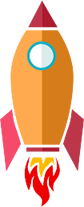
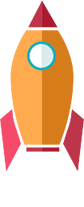
rocket new

Changed region(s): [[0.2857, 0.7536, 0.7143, 1.0]]

diff --git a/scripts/goToTop.js b/scripts/goToTop.js
@@ -2,30 +2,122 @@
  * Created by Wizlight on 28.07.2015.
  */
 
-function rocketMove(element,w) {
-    element.animate({
-        top:-$('#rocket').height(),
-        left:w
-    }, 3000);
+;(function(){
 
-    setTimeout(function () {
-        $('#exhaust').hide();
-    }, 500);
-    setTimeout(function () {
-        $('#rocket').hide();
-    }, 3000);
-}
+    var tail_img_1;
+    var tail_img_2;
+    var rock_img;
+    var exh_img_1;
+    var rock_div;
+    var exh_div;
 
-function goUp(){
-    var hPosR=$(document).outerHeight()-($('#rocket').height()+$('#exhaust').height());
-    var wPosR=$(document).outerWidth()/2-$(window).width()*0.225;
-    var hPosE=$(document).outerHeight()-$('#exhaust').height();
-    var wPosE=$(document).outerWidth()/2-$(window).width()*0.4167;
-    $('#rocket').show();
-    $('#rocket').offset({top:hPosR, left:wPosR});
-    $('#exhaust').show();
-    $('#exhaust').offset({top:hPosE, left:wPosE});
+    $('div .rightfooter a').click(goUp);
 
-    $('body,html').animate({scrollTop: 0}, 2700);
-    rocketMove($('#rocket'),wPosR);
-};
+    function goUp(){
+        var SCROLL_DURATION = 2700;
+        var ANIM_DURATION = 3000;
+
+        rock_div = $('#rocket_div');
+        exh_div = $('#exhaust_div');
+
+        rock_div.show();
+        exh_div.show();
+
+        looking_for_internal_nodes();
+
+        allocate_animation();
+
+        tail_img_2.hide();
+
+        set_tail_animation(tail_img_1, ANIM_DURATION, 50, 75);
+        set_tail_animation(tail_img_2, ANIM_DURATION, 50, 75);
+
+        set_exhaust_animation(1);
+
+        $('body,html').animate({scrollTop: 0}, SCROLL_DURATION);
+        rocketMove(rock_div, ANIM_DURATION);
+    }
+
+    function looking_for_internal_nodes(){
+        tail_img_1 = $('#pad_1');
+        tail_img_2 = $('#pad_2');
+        rock_img = $('#rocket');
+        exh_img_1 = $('#exhaust_1');
+    }
+
+    function allocate_animation(){
+        var horizBorder;
+        var vPosExh;
+        var vPosRoc;
+        var horizQuarter;
+        var hPosExh;
+        var hPosRoc;
+
+        var rock_hight = rock_img.height();
+        var rock_width = rock_img.width();
+        var exh_hight = exh_img_1.height();
+        var exh_width = exh_img_1.width();
+
+        if(rock_div.css("left") != "0px"){
+            vertBorder = $(document).height();
+        }else{
+            vertBorder = $(document).height() - Math.max(exh_hight, rock_hight);
+        }
+
+        horizQuarter = $(window).outerWidth()/4;
+        vPosExh = vertBorder - exh_hight - 10;
+        vPosRoc = vPosExh - rock_hight;
+        hPosExh = horizQuarter - exh_width/2;
+        hPosRoc = horizQuarter - rock_width/2;
+
+        rock_div.offset({top:vPosRoc, left:hPosRoc});
+        exh_div.offset({top:vPosExh, left:hPosExh});
+    }
+
+    function set_tail_animation(elem, duration, min_step, max_step){
+        var cur_time;
+        var step;
+
+        for(cur_time = 0; cur_time < duration;){
+            switch_visiable(elem, cur_time, 50);
+
+            step = min_step + Math.random() * (max_step + 1 - min_step);
+            step = Math.floor(step);
+            cur_time += step;
+        }
+
+        setTimeout(function () {
+            rock_div.hide();
+        }, duration);
+    }
+
+    function switch_visiable(elem, delay, duration){
+        setTimeout(function (){
+            elem.fadeToggle(duration, "linear");
+        }, delay);
+    }
+
+    function set_exhaust_animation(exh_id){
+        var curr = $('#exhaust_'+exh_id);
+        var next = $('#exhaust_'+(exh_id+1));
+
+        curr.fadeOut(700, "swing");
+        next.fadeIn(700, "swing", function(){
+            if(exh_id < 4){
+                set_exhaust_animation(exh_id + 1);
+            }else{
+                next.fadeOut(2000, "swing", function(){
+                    exh_div.hide();
+                });
+            }
+        });
+    }
+
+    function rocketMove(hPosRoc, duration) {
+        rock_div.animate({
+            top:0-rock_img.height(),
+            left:hPosRoc
+        }, duration);
+    }
+
+}());

diff --git a/css/style.css b/css/style.css
@@ -112,9 +112,42 @@ div.minavatar{width:70px;height:70px;float:right;margin-right:10px;overflow:hidd
 #teacher-view img{width:150px;}
 #mydialog, #forgotpass, #changePasswordDialog,#changeemail,#mydialog2,#mydialog3, #dialogNextLecture{display:none;}
 .forumLink{cursor:pointer;}
-div#rocket{display:none;width:7%;position:absolute;z-index:2000;}
-div#exhaust{display:none;width:45%;position:absolute;z-index:2000;}
-#exhaust img, #rocket img{width: 100%}
+
+div#rocket_div{
+    border-width: 0px;
+    outline-width: 0px;
+    display: none;
+    width: 7%;
+    position: absolute;
+    z-index: 2000;
+}
+img#rocket,img#pad_1,img#pad_2{
+    border-width: 0px;
+    outline-width: 0px;
+    position: absolute;
+    top: 0px;
+    left: 0px;
+    width: 100%;
+}
+div#exhaust_div{
+    display: none;
+    width: 50%;
+    position: absolute;
+    z-index: 2000;
+}
+img#exhaust_1, img#exhaust_2, img#exhaust_3, img#exhaust_4, img#exhaust_5{
+    border-width: 0px;
+    outline-width: 0px;
+    position: absolute;
+    width: 100%;
+    left: 0px;
+}
+img#exhaust_1{top: 0px;}
+img#exhaust_2{top: 4px; display: none;}
+img#exhaust_3{top: 7px; display: none;}
+img#exhaust_4{top: 9px; display: none;}
+img#exhaust_5{top: 10px; display: none;}
+
 #sharing .share42-counter,#sharingMain .share42-counter{display:block;margin:0;padding:0;text-align:center;background:#FFF;border:1px solid #d1d1d1;border-top:none;border-radius:0 0 5px 5px;height:20px;line-height:20px;}
 #sharing .share42-counter:before,#sharingMain .share42-counter:before{background:none;}
 #module-grid .grid-view table.items td{width:100px;}
@@ -243,7 +276,7 @@ div.modal-dialog {
     #hamburgerMini{display:block}
     #hamburger{display:none}
     #enter_button.down{
-         border: none;
+        border: none;
     }
     /*main header*/
     /*main footer*/

diff --git a/protected/views/layouts/main.php b/protected/views/layouts/main.php
@@ -1,4 +1,3 @@
-
 <?php
 /* @var $this Controller */
 $header = new Header();
@@ -94,15 +93,15 @@ $header = new Header();
                             <li class = <?php echo ($switch_navigation == Header::GRADUATES_ACTIVE)? 'current_page_active': ''?> >
                                 <a href="<?php echo Config::getBaseUrl() . '/graduate'; ?>"><?php echo Yii::t('header', '0137'); ?></a>
                             </li>
-<!--                            <li><a href="--><?php //echo Config::getBaseUrl() . '/crmForum'; ?><!--"-->
-<!--                                   target="_blank">--><?php //echo Yii::t('header', '0017'); ?><!--</a></li>-->
+                            <!--                            <li><a href="--><?php //echo Config::getBaseUrl() . '/crmForum'; ?><!--"-->
+                            <!--                                   target="_blank">--><?php //echo Yii::t('header', '0017'); ?><!--</a></li>-->
                             <li class = <?php echo ($switch_navigation == Header::ABOUTUS_ACTIVE)? 'current_page_active': ''?> >
                                 <a href="<?php echo Config::getBaseUrl() . '/aboutus'; ?>"><?php echo Yii::t('header', '0018'); ?></a>
                             </li>
                             <?php if (!Yii::app()->user->isGuest) { ?>
-                            <li>
-                                <a href="<?php echo Yii::app()->createUrl('/_teacher/cabinet/index'); ?>"><?php echo Yii::t('profile', '0815'); ?></a>
-                            </li>
+                                <li>
+                                    <a href="<?php echo Yii::app()->createUrl('/_teacher/cabinet/index'); ?>"><?php echo Yii::t('profile', '0815'); ?></a>
+                                </li>
                             <?php } ?>
                             <?php if (!Yii::app()->user->isGuest && (Yii::app()->controller->id == 'site') && (Yii::app()->controller->action->id == 'index') || (!Yii::app()->user->isGuest && (Yii::app()->controller->id == 'aboutus')) ){ ?>
                                 <li>
@@ -203,7 +202,7 @@ $header = new Header();
                     <td>
                         <a href="https://twitter.com/INTITA_EDU" target="_blank" title="Twitter">
                             <img
-                                src="<?php echo StaticFilesHelper::createPath('image', 'mainpage', 'twitter.png'); ?>"/>
+                                    src="<?php echo StaticFilesHelper::createPath('image', 'mainpage', 'twitter.png'); ?>"/>
                         </a>
                     </td>
                     <td>
@@ -215,7 +214,7 @@ $header = new Header();
                         <a href="https://plus.google.com/u/0/116490432477798418410/posts" target="_blank"
                            title="Google+">
                             <img
-                                src="<?php echo StaticFilesHelper::createPath('image', 'mainpage', 'googlePlus.png'); ?>"/>
+                                    src="<?php echo StaticFilesHelper::createPath('image', 'mainpage', 'googlePlus.png'); ?>"/>
                         </a>
                     </td>
                 </tr>
@@ -224,20 +223,20 @@ $header = new Header();
                         <a href="https://www.facebook.com/pages/INTITA/320360351410183" target="_blank"
                            title="Facebook">
                             <img
-                                src="<?php echo StaticFilesHelper::createPath('image', 'mainpage', 'facebook.png'); ?>"/>
+                                    src="<?php echo StaticFilesHelper::createPath('image', 'mainpage', 'facebook.png'); ?>"/>
                         </a>
                     </td>
                     <td>
                         <a href="https://www.linkedin.com/company/intita?trk=biz-companies-cym" target="_blank"
                            title="Linkedin">
                             <img
-                                src="<?php echo StaticFilesHelper::createPath('image', 'mainpage', 'inl.png'); ?>"/>
+                                    src="<?php echo StaticFilesHelper::createPath('image', 'mainpage', 'inl.png'); ?>"/>
                         </a>
                     </td>
                     <td>
                         <a href="https://www.instagram.com/intitaedu/" target="_blank" title="Instagram">
                             <img
-                                src="<?php echo StaticFilesHelper::createPath('image', 'mainpage', 'instagram.png'); ?>"/>
+                                    src="<?php echo StaticFilesHelper::createPath('image', 'mainpage', 'instagram.png'); ?>"/>
                         </a>
                     </td>
                 </tr>
@@ -256,7 +255,7 @@ $header = new Header();
                         <span><?php $footer = new Footer(); echo $footer->getTel(); ?></span><br/>
                         <span><?php echo $footer->getMobile(); ?></span><br/>
                         <span><?php echo $footer->getEmail(); ?></span><br/>
-<!--                        <span>--><?php //echo $footer->getSkype(); ?><!--</span><br/>-->
+                        <!--                        <span>--><?php //echo $footer->getSkype(); ?><!--</span><br/>-->
                     </p>
                 </div>
             </div>
@@ -272,8 +271,8 @@ $header = new Header();
                     <li class = <?php echo ($switch_navigation == Header::GRADUATES_ACTIVE)? 'current_page_active': ''?> >
                         <a href="<?php echo Config::getBaseUrl() . '/graduate'; ?>"><?php echo Yii::t('header', '0137'); ?></a>
                     </li>
-<!--                    <li><a href="--><?php //echo Config::getBaseUrl() . '/crmForum'; ?><!--"-->
-<!--                           target="_blank">--><?php //echo Yii::t('header', '0017'); ?><!--</a></li>-->
+                    <!--                    <li><a href="--><?php //echo Config::getBaseUrl() . '/crmForum'; ?><!--"-->
+                    <!--                           target="_blank">--><?php //echo Yii::t('header', '0017'); ?><!--</a></li>-->
                     <li class = <?php echo ($switch_navigation == Header::ABOUTUS_ACTIVE)? 'current_page_active': ''?>>
                         <a href="<?php echo Config::getBaseUrl() . '/aboutus'; ?>"><?php echo Yii::t('header', '0018'); ?></a>
                     </li>
@@ -300,8 +299,8 @@ $header = new Header();
             </div>
         </div>
         <div class="rightfooter">
-            <a onclick='goUp()'><img
-                    src="<?php echo StaticFilesHelper::createPath('image', 'mainpage', 'go_up.png'); ?>"></a>
+            <a href="javascript:void(0)"><img
+                        src="<?php echo StaticFilesHelper::createPath('image', 'mainpage', 'go_up.png'); ?>"></a>
         </div>
     </div>
 </div>
@@ -312,11 +311,18 @@ $header = new Header();
 <!-- Humburger script -->
 <script type="text/javascript" src="<?php echo StaticFilesHelper::fullPathTo('js', 'hamburgermenu.js'); ?>"></script>
 <script type="text/javascript" src="<?php echo StaticFilesHelper::fullPathTo('js', 'goToTop.js'); ?>"></script>
-<div id="rocket">
-    <img src="<?php echo StaticFilesHelper::createPath('image', 'mainpage', 'rocket.png'); ?>"/>
+
+<div id="rocket_div">
+    <img id="rocket" src="<?php echo StaticFilesHelper::createPath('image', 'mainpage', 'rocket.png'); ?>"/>
+    <img id="pad_1" src="<?php echo StaticFilesHelper::createPath('image', 'mainpage', 'tail_1.png'); ?>"/>
+    <img id="pad_2" src="<?php echo StaticFilesHelper::createPath('image', 'mainpage', 'tail_2.png'); ?>"/>
 </div>
-<div id="exhaust">
-    <img src="<?php echo StaticFilesHelper::createPath('image', 'mainpage', 'exhaust.png'); ?>"/>
+<div id="exhaust_div">
+    <img id="exhaust_1" src="<?php echo StaticFilesHelper::createPath('image', 'mainpage', 'exhaust.png'); ?>"/>
+    <img id="exhaust_2" src="<?php echo StaticFilesHelper::createPath('image', 'mainpage', 'exhaust.png'); ?>"/>
+    <img id="exhaust_3" src="<?php echo StaticFilesHelper::createPath('image', 'mainpage', 'exhaust.png'); ?>"/>
+    <img id="exhaust_4" src="<?php echo StaticFilesHelper::createPath('image', 'mainpage', 'exhaust.png'); ?>"/>
+    <img id="exhaust_5" src="<?php echo StaticFilesHelper::createPath('image', 'mainpage', 'exhaust.png'); ?>"/>
 </div>
 
 <!-- jQuery -->
@@ -328,7 +334,7 @@ $header = new Header();
 <!-- Placeholder for old browser -->
 <script>
     (function(i,s,o,g,r,a,m){i['GoogleAnalyticsObject']=r;i[r]=i[r]||function(){
-            (i[r].q=i[r].q||[]).push(arguments)},i[r].l=1*new Date();a=s.createElement(o),
+        (i[r].q=i[r].q||[]).push(arguments)},i[r].l=1*new Date();a=s.createElement(o),
         m=s.getElementsByTagName(o)[0];a.async=1;a.src=g;m.parentNode.insertBefore(a,m)
     })(window,document,'script','https://www.google-analytics.com/analytics.js','ga');
 
